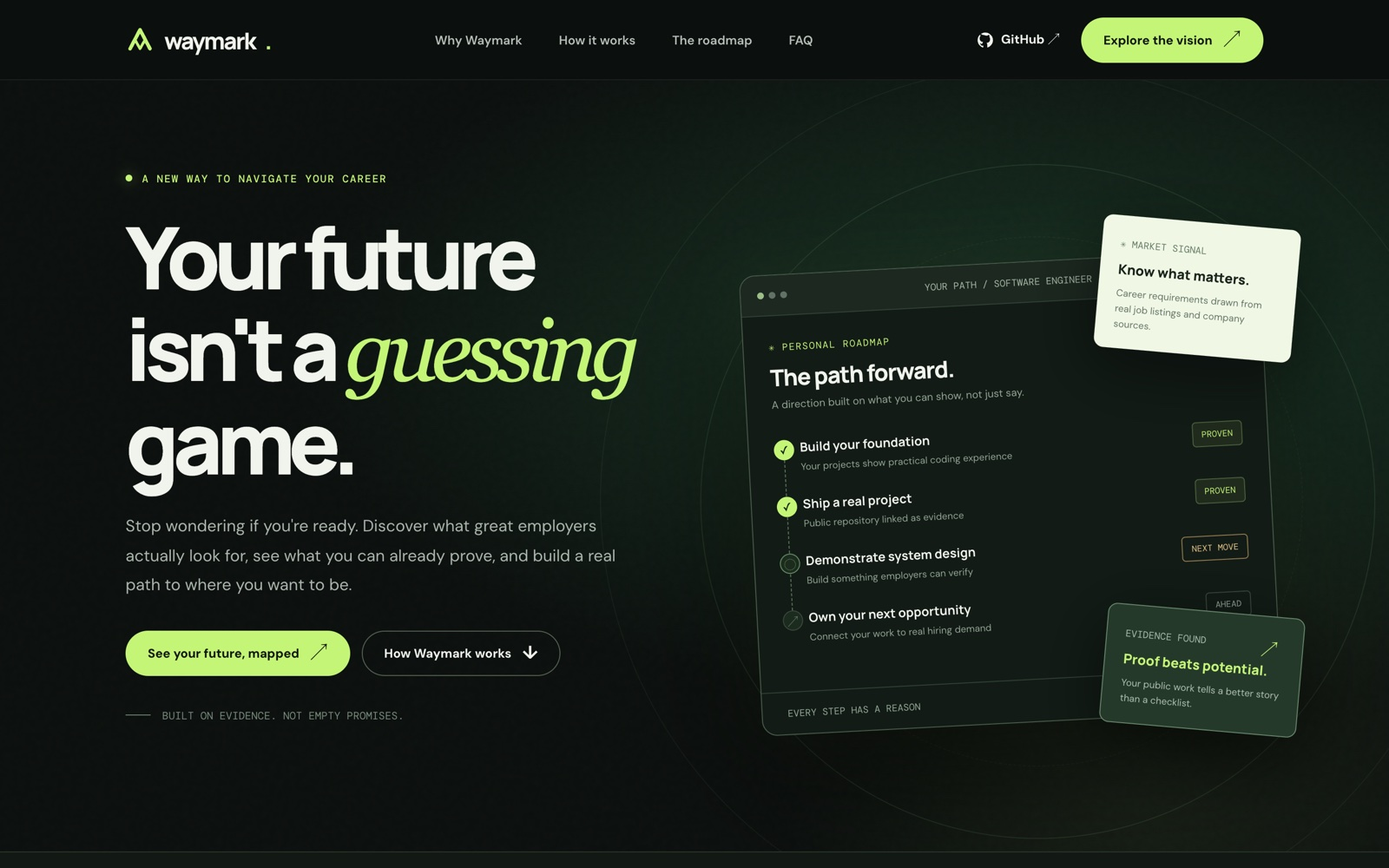
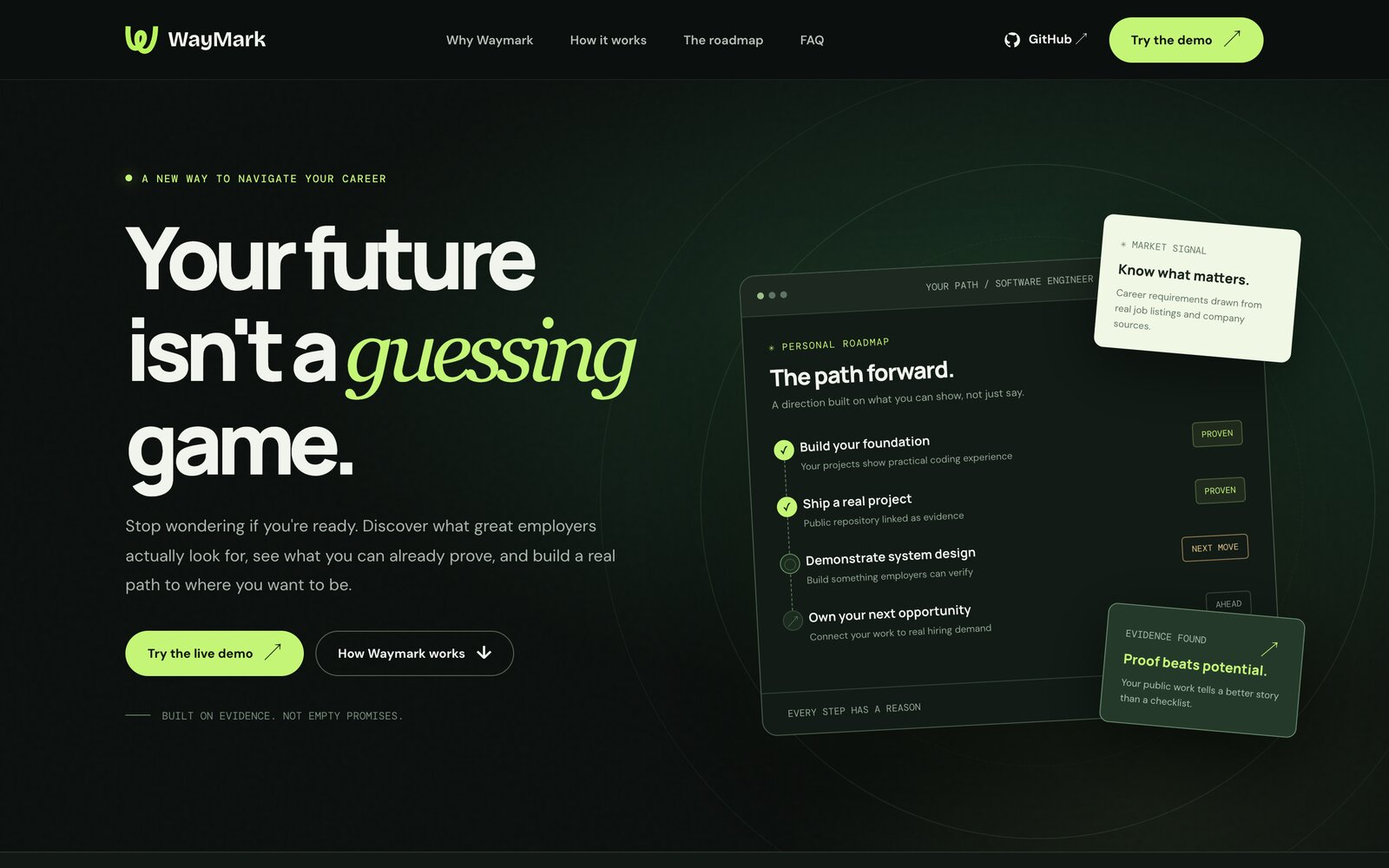
feat: landing page at the root of the demo deployment, app at /demo
With UI_DEMO_ONLY=1 the server now serves landing/index.html at / and
/demo starts the app on sample data, like a product site with a demo.
The landing call-to-action buttons, FAQ and footer link to /demo; on the
GitHub Pages copy, which has no app behind it, they point to the local
quick start instead. The Docker image now includes landing/.

The README hero image is re-shot with the new logo and demo button.

diff --git a/landing/index.html b/landing/index.html
@@ -12,20 +12,21 @@
 </style>
 </head>
 <body>
-<header class="nav"><div class="shell nav-inner"><a class="brand" href="#top" aria-label="WayMark home"><svg class="brand-mark" viewBox="0 0 321 272" aria-hidden="true"><path d="M1.88721 0C18.2022 1.05565 35.6589 1.57716 51.7808 3.10449C51.5561 12.9603 51.0169 23.351 50.3384 33.1934C48.0648 66.2833 50.6482 190 98.4351 190.943C87.5079 156.352 81.0214 110.171 97.231 75.9941C111.741 45.407 144.599 29.2355 176.52 44.8008C212.296 63.021 215.934 109.268 206.332 143.579C198.886 170.187 186.027 191.128 166.43 210.354C197.26 240.311 227.091 201.149 239.478 174.119C264.47 119.583 268.546 59.9441 270.583 0.948242C287.075 1.23574 303.566 1.61269 320.054 2.06641C320.797 38.4352 316.258 80.7158 309.666 116.406C298.671 175.919 265.136 265.681 193.527 271.097C191.377 271.302 185.978 271.313 183.809 271.094C156.226 268.315 140.061 256.466 122.849 236.832C113.585 239.932 102.412 241.843 92.7485 240.818C8.12813 231.846 0.0127886 115.952 0.00830078 52.9629C-0.081558 35.2907 0.548211 17.6228 1.88721 0ZM156.211 91.4424C152.25 87.7275 150.902 87.728 146.61 91.416C133.031 106.905 137.24 143.912 142.377 162.563C152.843 147.217 160.422 130.727 161.015 111.806C161.248 104.376 160.44 97.7 156.211 91.4424Z" fill="#B8F25B"/></svg>WayMark</a><nav class="nav-links" id="nav-links" aria-label="Main navigation"><a href="#why">Why Waymark</a><a href="#how">How it works</a><a href="#preview">The roadmap</a><a href="#faq">FAQ</a></nav><div class="nav-actions"><a class="github-link" href="https://github.com/cufelix/Waymark" target="_blank" rel="noopener noreferrer"><svg viewBox="0 0 24 24" fill="currentColor" aria-hidden="true"><path d="M12 .8A11.2 11.2 0 0 0 8.46 22.63c.56.1.77-.24.77-.54v-2.08c-3.13.68-3.79-1.33-3.79-1.33-.5-1.29-1.25-1.63-1.25-1.63-1.02-.7.08-.68.08-.68 1.12.08 1.71 1.15 1.71 1.15 1 .17 1.64-.54 2.04-1.04a3.05 3.05 0 0 1 .91-1.91c-2.5-.28-5.13-1.25-5.13-5.57 0-1.23.44-2.23 1.15-3.02-.12-.28-.5-1.43.11-2.98 0 0 .94-.3 3.08 1.15A10.7 10.7 0 0 1 12 5.08c.95 0 1.9.13 2.79.38 2.14-1.45 3.08-1.15 3.08-1.15.61 1.55.23 2.7.11 2.98.72.79 1.15 1.79 1.15 3.02 0 4.33-2.64 5.29-5.15 5.57.5.43.95 1.27.95 2.57v3.61c0 .3.2.65.78.54A11.2 11.2 0 0 0 12 .8Z"/></svg>GitHub ↗</a><a class="pill" href="#preview">Explore the vision <span class="arrow">↗</span></a><button class="mobile-toggle" id="menu-toggle" aria-label="Toggle navigation" aria-expanded="false">☰</button></div></div></header>
+<header class="nav"><div class="shell nav-inner"><a class="brand" href="#top" aria-label="WayMark home"><svg class="brand-mark" viewBox="0 0 321 272" aria-hidden="true"><path d="M1.88721 0C18.2022 1.05565 35.6589 1.57716 51.7808 3.10449C51.5561 12.9603 51.0169 23.351 50.3384 33.1934C48.0648 66.2833 50.6482 190 98.4351 190.943C87.5079 156.352 81.0214 110.171 97.231 75.9941C111.741 45.407 144.599 29.2355 176.52 44.8008C212.296 63.021 215.934 109.268 206.332 143.579C198.886 170.187 186.027 191.128 166.43 210.354C197.26 240.311 227.091 201.149 239.478 174.119C264.47 119.583 268.546 59.9441 270.583 0.948242C287.075 1.23574 303.566 1.61269 320.054 2.06641C320.797 38.4352 316.258 80.7158 309.666 116.406C298.671 175.919 265.136 265.681 193.527 271.097C191.377 271.302 185.978 271.313 183.809 271.094C156.226 268.315 140.061 256.466 122.849 236.832C113.585 239.932 102.412 241.843 92.7485 240.818C8.12813 231.846 0.0127886 115.952 0.00830078 52.9629C-0.081558 35.2907 0.548211 17.6228 1.88721 0ZM156.211 91.4424C152.25 87.7275 150.902 87.728 146.61 91.416C133.031 106.905 137.24 143.912 142.377 162.563C152.843 147.217 160.422 130.727 161.015 111.806C161.248 104.376 160.44 97.7 156.211 91.4424Z" fill="#B8F25B"/></svg>WayMark</a><nav class="nav-links" id="nav-links" aria-label="Main navigation"><a href="#why">Why Waymark</a><a href="#how">How it works</a><a href="#preview">The roadmap</a><a href="#faq">FAQ</a></nav><div class="nav-actions"><a class="github-link" href="https://github.com/cufelix/Waymark" target="_blank" rel="noopener noreferrer"><svg viewBox="0 0 24 24" fill="currentColor" aria-hidden="true"><path d="M12 .8A11.2 11.2 0 0 0 8.46 22.63c.56.1.77-.24.77-.54v-2.08c-3.13.68-3.79-1.33-3.79-1.33-.5-1.29-1.25-1.63-1.25-1.63-1.02-.7.08-.68.08-.68 1.12.08 1.71 1.15 1.71 1.15 1 .17 1.64-.54 2.04-1.04a3.05 3.05 0 0 1 .91-1.91c-2.5-.28-5.13-1.25-5.13-5.57 0-1.23.44-2.23 1.15-3.02-.12-.28-.5-1.43.11-2.98 0 0 .94-.3 3.08 1.15A10.7 10.7 0 0 1 12 5.08c.95 0 1.9.13 2.79.38 2.14-1.45 3.08-1.15 3.08-1.15.61 1.55.23 2.7.11 2.98.72.79 1.15 1.79 1.15 3.02 0 4.33-2.64 5.29-5.15 5.57.5.43.95 1.27.95 2.57v3.61c0 .3.2.65.78.54A11.2 11.2 0 0 0 12 .8Z"/></svg>GitHub ↗</a><a class="pill" href="/demo" data-demo>Try the demo <span class="arrow">↗</span></a><button class="mobile-toggle" id="menu-toggle" aria-label="Toggle navigation" aria-expanded="false">☰</button></div></div></header>
 <main id="top">
-<section class="hero"><div class="noise"></div><div class="shell hero-inner"><div class="hero-copy"><div class="eyebrow">A new way to navigate your career</div><h1>Your future<br>isn't a <span class="serif">guessing</span><br>game.</h1><p class="hero-desc">Stop wondering if you're ready. Discover what great employers actually look for, see what you can already prove, and build a real path to where you want to be.</p><div class="hero-buttons"><a href="#preview" class="pill">See your future, mapped <span class="arrow">↗</span></a><a href="#how" class="pill outline">How Waymark works <span class="arrow">↓</span></a></div><div class="trust-note"><span></span>BUILT ON EVIDENCE. NOT EMPTY PROMISES.</div></div><div class="visual" aria-label="Illustrative career roadmap preview"><div class="orbit"></div><div class="orbit two"></div><div class="orbit three"></div><div class="floating-glow"></div><div class="dashboard"><div class="dash-top"><div class="dots"><i></i><i></i><i></i></div><small>YOUR PATH / SOFTWARE ENGINEER</small><span class="mini-brand">W</span></div><div class="dash-body"><div class="dash-tag">✳ PERSONAL ROADMAP</div><div class="dash-title">The path forward.</div><div class="dash-sub">A direction built on what you can show, not just say.</div><div class="route"><div class="route-item done"><span class="route-icon">✓</span><div><div class="route-name">Build your foundation</div><div class="route-description">Your projects show practical coding experience</div></div><span class="status proven">Proven</span></div><div class="route-item done"><span class="route-icon">✓</span><div><div class="route-name">Ship a real project</div><div class="route-description">Public repository linked as evidence</div></div><span class="status proven">Proven</span></div><div class="route-item"><span class="route-icon">◌</span><div><div class="route-name">Demonstrate system design</div><div class="route-description">Build something employers can verify</div></div><span class="status progress">Next move</span></div><div class="route-item locked"><span class="route-icon">↗</span><div><div class="route-name">Own your next opportunity</div><div class="route-description">Connect your work to real hiring demand</div></div><span class="status">Ahead</span></div></div></div><div class="dash-foot"><span>EVERY STEP HAS A REASON</span><b>● EVIDENCE-LED</b></div></div><div class="floatcard"><small>✳ MARKET SIGNAL</small><strong>Know what matters.</strong><p>Career requirements drawn from real job listings and company sources.</p></div><div class="floatcard bottom"><span class="spark">↗</span><small>EVIDENCE FOUND</small><strong>Proof beats potential.</strong><p>Your public work tells a better story than a checklist.</p></div></div></div></section>
+<section class="hero"><div class="noise"></div><div class="shell hero-inner"><div class="hero-copy"><div class="eyebrow">A new way to navigate your career</div><h1>Your future<br>isn't a <span class="serif">guessing</span><br>game.</h1><p class="hero-desc">Stop wondering if you're ready. Discover what great employers actually look for, see what you can already prove, and build a real path to where you want to be.</p><div class="hero-buttons"><a href="/demo" class="pill" data-demo>Try the live demo <span class="arrow">↗</span></a><a href="#how" class="pill outline">How Waymark works <span class="arrow">↓</span></a></div><div class="trust-note"><span></span>BUILT ON EVIDENCE. NOT EMPTY PROMISES.</div></div><div class="visual" aria-label="Illustrative career roadmap preview"><div class="orbit"></div><div class="orbit two"></div><div class="orbit three"></div><div class="floating-glow"></div><div class="dashboard"><div class="dash-top"><div class="dots"><i></i><i></i><i></i></div><small>YOUR PATH / SOFTWARE ENGINEER</small><span class="mini-brand">W</span></div><div class="dash-body"><div class="dash-tag">✳ PERSONAL ROADMAP</div><div class="dash-title">The path forward.</div><div class="dash-sub">A direction built on what you can show, not just say.</div><div class="route"><div class="route-item done"><span class="route-icon">✓</span><div><div class="route-name">Build your foundation</div><div class="route-description">Your projects show practical coding experience</div></div><span class="status proven">Proven</span></div><div class="route-item done"><span class="route-icon">✓</span><div><div class="route-name">Ship a real project</div><div class="route-description">Public repository linked as evidence</div></div><span class="status proven">Proven</span></div><div class="route-item"><span class="route-icon">◌</span><div><div class="route-name">Demonstrate system design</div><div class="route-description">Build something employers can verify</div></div><span class="status progress">Next move</span></div><div class="route-item locked"><span class="route-icon">↗</span><div><div class="route-name">Own your next opportunity</div><div class="route-description">Connect your work to real hiring demand</div></div><span class="status">Ahead</span></div></div></div><div class="dash-foot"><span>EVERY STEP HAS A REASON</span><b>● EVIDENCE-LED</b></div></div><div class="floatcard"><small>✳ MARKET SIGNAL</small><strong>Know what matters.</strong><p>Career requirements drawn from real job listings and company sources.</p></div><div class="floatcard bottom"><span class="spark">↗</span><small>EVIDENCE FOUND</small><strong>Proof beats potential.</strong><p>Your public work tells a better story than a checklist.</p></div></div></div></section>
 <div class="ticker"><div class="shell ticker-inner"><span class="ticker-label">Built for the ambitious</span><div class="ticker-items"><span>Students & graduates</span><span>Career changers</span><span>Self-taught builders</span><span>Future leaders</span></div></div></div>
 <section class="section" id="why"><div class="shell"><div class="section-head reveal"><div class="kicker">01 / The problem we're solving</div><h2>Big ambitions deserve<br><span class="serif">better directions.</span></h2><p class="section-lead">Generic career advice tells everyone the same thing. Waymark is designed to show you the actual gap between where you stand and the opportunities you care about.</p></div><div class="feature-grid"><article class="feature reveal"><span class="feature-number">/ 01 — CLARITY</span><div class="feature-icon">⌁</div><h3>See the real market.</h3><p>Explore the skills employers are asking for, using real job posts, career pages, and transparent sources instead of guesswork.</p></article><article class="feature reveal"><span class="feature-number">/ 02 — EVIDENCE</span><div class="feature-icon">✳</div><h3>Show what you can do.</h3><p>Turn your projects, portfolio, and credentials into a clearer picture of your abilities. Your claims and your proof stay distinct.</p></article><article class="feature reveal"><span class="feature-number">/ 03 — DIRECTION</span><div class="feature-icon">↗</div><h3>Make the next move.</h3><p>Follow a personal roadmap of meaningful steps, with progress you earn through real, verifiable work — not arbitrary scores.</p></article></div></div></section>
 <section class="section light-band" id="how"><div class="shell"><div class="section-head reveal"><div class="kicker">02 / How it works</div><h2>Less scrolling.<br><span class="serif" style="color:#547e51">More becoming.</span></h2><p class="section-lead">A simpler journey from “I have no idea” to “I know exactly what to work on next.”</p></div><div class="process"><div class="step reveal"><div class="step-num">01</div><h3>Tell us your direction.</h3><p>Share your interests, ambitions, CV, and only the work you choose to share. You stay in control of your story.</p></div><div class="step reveal"><div class="step-num">02</div><h3>Discover the gap.</h3><p>Waymark is designed to research the job market and identify what employers expect — and what your own evidence already demonstrates.</p></div><div class="step reveal"><div class="step-num">03</div><h3>Build your way there.</h3><p>Get an actionable learning path and unlock milestones by creating and sharing actual proof of your progress.</p></div></div></div></section>
 <section class="showcase" id="preview"><div class="shell showcase-layout"><div class="reveal"><div class="kicker">03 / An inside look</div><h2>Every skill.<br>Every step.<br><span class="serif">Backed up.</span></h2><p>A preview of the evidence-first thinking behind Waymark. Select a career direction to see how different paths can take shape.</p><div class="tabs" role="tablist" aria-label="Example career paths"><button class="tab" role="tab" aria-selected="true" data-path="engineering">Engineering</button><button class="tab" role="tab" aria-selected="false" data-path="design">Design</button><button class="tab" role="tab" aria-selected="false" data-path="marketing">Marketing</button></div><p style="font:10px 'DM Mono';color:#718b76;margin-top:22px">ILLUSTRATIVE DATA · NOT LIVE JOB-MARKET RESULTS</p></div><div class="sample reveal" aria-live="polite"><div class="sample-header"><span>WAYMARK / CAREER INSIGHTS</span><strong>✳ PATH EXPLORER</strong></div><div class="sample-main"><h3 id="sample-title">Software Engineer</h3><p class="sample-blurb" id="sample-blurb">A clearer view of the skills you can demonstrate and what to build next.</p><div id="sample-skills"><div class="skill-row"><div><strong>Programming fundamentals</strong><small>Demonstrated through projects you've shared</small><small class="source-label">↗ Evidence: public project</small></div><span class="marker">✓ PROVEN</span></div><div class="skill-row"><div><strong>Version control & collaboration</strong><small>Claimed experience; proof can be added</small><small class="source-label">↗ Evidence: CV / self-reported</small></div><span class="marker pending">◌ STATED</span></div><div class="skill-row"><div><strong>System architecture</strong><small>A potential next learning milestone</small><small class="source-label">↗ Evidence: not yet supplied</small></div><span class="marker notyet">↗ NEXT</span></div></div></div><div class="sample-bottom">NO FAKE SCORES. NO BLACK-BOX RANKINGS. <span>JUST A PATH FORWARD ↗</span></div></div></div></section>
 <section class="manifesto"><div class="shell reveal"><div class="kicker">Built for real progress</div><h2>You're more than a résumé.<br><span class="serif">Your work should prove it.</span></h2><p>Your future shouldn't depend on buzzwords or a made-up match score. Waymark is being built around verifiable evidence, transparent sources, and the belief that growth is something you can demonstrate.</p><a class="pill" href="https://github.com/cufelix/Waymark" target="_blank" rel="noopener noreferrer">Follow our progress on GitHub <span class="arrow">↗</span></a></div></section>
-<section class="section" id="faq"><div class="shell"><div class="section-head reveal"><div class="kicker">04 / Good to know</div><h2>Questions? <span class="serif">We've got you.</span></h2></div><div class="faq-wrap"><div class="faq-row open"><button class="faq-question" aria-expanded="true">What exactly is Waymark? <span>−</span></button><div class="faq-answer">Waymark is an evidence-led career roadmap platform in development. It aims to combine the career direction you choose, the work you share, and sourced employer requirements into concrete next steps.</div></div><div class="faq-row"><button class="faq-question" aria-expanded="false">Is Waymark just for people working in tech? <span>+</span></button><div class="faq-answer">No. Waymark is being designed for careers across industries, countries, and professions — from engineering and design to healthcare, finance, and skilled trades. Coverage will grow as reliable sources are added.</div></div><div class="faq-row"><button class="faq-question" aria-expanded="false">How does Waymark know what I'm capable of? <span>+</span></button><div class="faq-answer">You decide what to share, such as your CV, portfolio, public projects, or credentials. Waymark distinguishes things you say you can do from skills supported by links or other evidence.</div></div><div class="faq-row"><button class="faq-question" aria-expanded="false">Are the example insights on this page real? <span>+</span></button><div class="faq-answer">No. The interactive preview is illustrative and does not represent real-time research or a completed user assessment. Waymark's product goal is to link actual claims to inspectable sources.</div></div><div class="faq-row"><button class="faq-question" aria-expanded="false">Can I use Waymark right now? <span>+</span></button><div class="faq-answer">Waymark is under development. You can follow the public repository on GitHub for progress and updates. This landing page doesn't collect personal information or promise an active sign-up flow.</div></div></div></div></section>
-</main><footer class="footer"><div class="shell"><div class="footer-top"><a class="brand" href="#top"><svg class="brand-mark" viewBox="0 0 321 272" aria-hidden="true"><path d="M1.88721 0C18.2022 1.05565 35.6589 1.57716 51.7808 3.10449C51.5561 12.9603 51.0169 23.351 50.3384 33.1934C48.0648 66.2833 50.6482 190 98.4351 190.943C87.5079 156.352 81.0214 110.171 97.231 75.9941C111.741 45.407 144.599 29.2355 176.52 44.8008C212.296 63.021 215.934 109.268 206.332 143.579C198.886 170.187 186.027 191.128 166.43 210.354C197.26 240.311 227.091 201.149 239.478 174.119C264.47 119.583 268.546 59.9441 270.583 0.948242C287.075 1.23574 303.566 1.61269 320.054 2.06641C320.797 38.4352 316.258 80.7158 309.666 116.406C298.671 175.919 265.136 265.681 193.527 271.097C191.377 271.302 185.978 271.313 183.809 271.094C156.226 268.315 140.061 256.466 122.849 236.832C113.585 239.932 102.412 241.843 92.7485 240.818C8.12813 231.846 0.0127886 115.952 0.00830078 52.9629C-0.081558 35.2907 0.548211 17.6228 1.88721 0ZM156.211 91.4424C152.25 87.7275 150.902 87.728 146.61 91.416C133.031 106.905 137.24 143.912 142.377 162.563C152.843 147.217 160.422 130.727 161.015 111.806C161.248 104.376 160.44 97.7 156.211 91.4424Z" fill="#B8F25B"/></svg>WayMark</a><div class="footer-links"><a href="#why">The idea</a><a href="#how">How it works</a><a href="#preview">Roadmap preview</a><a href="https://github.com/cufelix/Waymark" target="_blank" rel="noopener noreferrer">GitHub ↗</a></div></div><div class="footer-bottom"><span>© <span id="year">2026</span> WAYMARK. FIND YOUR WAY FORWARD.</span><span>BUILT WITH AMBITION. GROUNDED IN EVIDENCE.</span></div></div></footer>
+<section class="section" id="faq"><div class="shell"><div class="section-head reveal"><div class="kicker">04 / Good to know</div><h2>Questions? <span class="serif">We've got you.</span></h2></div><div class="faq-wrap"><div class="faq-row open"><button class="faq-question" aria-expanded="true">What exactly is Waymark? <span>−</span></button><div class="faq-answer">Waymark is an evidence-led career roadmap platform in development. It aims to combine the career direction you choose, the work you share, and sourced employer requirements into concrete next steps.</div></div><div class="faq-row"><button class="faq-question" aria-expanded="false">Is Waymark just for people working in tech? <span>+</span></button><div class="faq-answer">No. Waymark is being designed for careers across industries, countries, and professions — from engineering and design to healthcare, finance, and skilled trades. Coverage will grow as reliable sources are added.</div></div><div class="faq-row"><button class="faq-question" aria-expanded="false">How does Waymark know what I'm capable of? <span>+</span></button><div class="faq-answer">You decide what to share, such as your CV, portfolio, public projects, or credentials. Waymark distinguishes things you say you can do from skills supported by links or other evidence.</div></div><div class="faq-row"><button class="faq-question" aria-expanded="false">Are the example insights on this page real? <span>+</span></button><div class="faq-answer">No. The interactive preview is illustrative and does not represent real-time research or a completed user assessment. Waymark's product goal is to link actual claims to inspectable sources.</div></div><div class="faq-row"><button class="faq-question" aria-expanded="false">Can I use Waymark right now? <span>+</span></button><div class="faq-answer">Yes, as a demo. <a href="/demo" data-demo style="color:var(--lime)">Try the demo</a> to walk through the whole flow (interview, task cards, research, career paths and a roadmap) on fictional sample data, with no sign-up. The research engine itself is <a href="https://github.com/cufelix/Waymark" style="color:var(--lime)">open source on GitHub</a>; you can run it with your own API keys.</div></div></div></div></section>
+</main><footer class="footer"><div class="shell"><div class="footer-top"><a class="brand" href="#top"><svg class="brand-mark" viewBox="0 0 321 272" aria-hidden="true"><path d="M1.88721 0C18.2022 1.05565 35.6589 1.57716 51.7808 3.10449C51.5561 12.9603 51.0169 23.351 50.3384 33.1934C48.0648 66.2833 50.6482 190 98.4351 190.943C87.5079 156.352 81.0214 110.171 97.231 75.9941C111.741 45.407 144.599 29.2355 176.52 44.8008C212.296 63.021 215.934 109.268 206.332 143.579C198.886 170.187 186.027 191.128 166.43 210.354C197.26 240.311 227.091 201.149 239.478 174.119C264.47 119.583 268.546 59.9441 270.583 0.948242C287.075 1.23574 303.566 1.61269 320.054 2.06641C320.797 38.4352 316.258 80.7158 309.666 116.406C298.671 175.919 265.136 265.681 193.527 271.097C191.377 271.302 185.978 271.313 183.809 271.094C156.226 268.315 140.061 256.466 122.849 236.832C113.585 239.932 102.412 241.843 92.7485 240.818C8.12813 231.846 0.0127886 115.952 0.00830078 52.9629C-0.081558 35.2907 0.548211 17.6228 1.88721 0ZM156.211 91.4424C152.25 87.7275 150.902 87.728 146.61 91.416C133.031 106.905 137.24 143.912 142.377 162.563C152.843 147.217 160.422 130.727 161.015 111.806C161.248 104.376 160.44 97.7 156.211 91.4424Z" fill="#B8F25B"/></svg>WayMark</a><div class="footer-links"><a href="/demo" data-demo>Demo</a><a href="#why">The idea</a><a href="#how">How it works</a><a href="#preview">Roadmap preview</a><a href="https://github.com/cufelix/Waymark" target="_blank" rel="noopener noreferrer">GitHub ↗</a></div></div><div class="footer-bottom"><span>© <span id="year">2026</span> WAYMARK. FIND YOUR WAY FORWARD.</span><span>BUILT WITH AMBITION. GROUNDED IN EVIDENCE.</span></div></div></footer>
 <script>
 const toggle=document.getElementById('menu-toggle'),nav=document.getElementById('nav-links');toggle.addEventListener('click',()=>{const open=nav.classList.toggle('open');toggle.setAttribute('aria-expanded',String(open));toggle.textContent=open?'×':'☰'});nav.querySelectorAll('a').forEach(a=>a.addEventListener('click',()=>{nav.classList.remove('open');toggle.setAttribute('aria-expanded','false');toggle.textContent='☰'}));document.getElementById('year').textContent=new Date().getFullYear();
 const examples={engineering:{title:'Software Engineer',blurb:'A clearer view of the skills you can demonstrate and what to build next.',rows:[['Programming fundamentals','Demonstrated through projects you’ve shared','Public project','PROVEN'],['Version control & collaboration','Claimed experience; proof can be added','CV / self-reported','STATED'],['System architecture','A potential next learning milestone','Not yet supplied','NEXT']]},design:{title:'Product Designer',blurb:'Connect your creative practice to the capabilities product teams look for.',rows:[['Visual design fundamentals','Demonstrated through a published portfolio','Portfolio case study','PROVEN'],['User research','Experience listed in your CV','CV / self-reported','STATED'],['End-to-end product thinking','An opportunity to build a stronger case study','Not yet supplied','NEXT']]},marketing:{title:'Growth Marketer',blurb:'Turn your campaigns and results into evidence of real impact.',rows:[['Content strategy','Examples shared in your portfolio','Published work','PROVEN'],['Performance analytics','Skill listed in your experience','CV / self-reported','STATED'],['Experiment design','A potential next portfolio milestone','Not yet supplied','NEXT']]}};
 const escapeHTML=s=>s.replace(/[&<>"']/g,c=>({'&':'&amp;','<':'&lt;','>':'&gt;','"':'&quot;',"'":'&#39;'}[c]));document.querySelectorAll('.tab').forEach(t=>t.addEventListener('click',()=>{document.querySelectorAll('.tab').forEach(x=>x.setAttribute('aria-selected',String(x===t)));const d=examples[t.dataset.path];document.getElementById('sample-title').textContent=d.title;document.getElementById('sample-blurb').textContent=d.blurb;document.getElementById('sample-skills').innerHTML=d.rows.map(r=>`<div class="skill-row"><div><strong>${escapeHTML(r[0])}</strong><small>${escapeHTML(r[1])}</small><small class="source-label">↗ Evidence: ${escapeHTML(r[2])}</small></div><span class="marker ${r[3]==='STATED'?'pending':r[3]==='NEXT'?'notyet':''}">${r[3]==='PROVEN'?'✓':r[3]==='STATED'?'◌':'↗'} ${r[3]}</span></div>`).join('')}));
 document.querySelectorAll('.faq-question').forEach(btn=>btn.addEventListener('click',()=>{const row=btn.closest('.faq-row'),willOpen=!row.classList.contains('open');document.querySelectorAll('.faq-row').forEach(r=>{r.classList.remove('open');r.querySelector('button').setAttribute('aria-expanded','false');r.querySelector('button span').textContent='+'});if(willOpen){row.classList.add('open');btn.setAttribute('aria-expanded','true');btn.querySelector('span').textContent='−'}}));
 if('IntersectionObserver'in window){const obs=new IntersectionObserver(entries=>{entries.forEach(e=>{if(e.isIntersecting){e.target.classList.add('visible');obs.unobserve(e.target)}})},{threshold:.1});document.querySelectorAll('.reveal').forEach(el=>obs.observe(el))}else document.querySelectorAll('.reveal').forEach(el=>el.classList.add('visible'));
-</script></body></html>
+</script><script>if(location.hostname.endsWith("github.io"))document.querySelectorAll("[data-demo]").forEach(a=>a.href="https://github.com/cufelix/Waymark#try-it-locally")</script>
+</body></html>

diff --git a/src/api/ui.ts b/src/api/ui.ts
@@ -2,6 +2,7 @@
 // Local mode (this machine only) forwards everything. Public mode is scoped to one seeker per browser: creating a
 // seeker sets a signed HttpOnly session cookie, and every later request may only touch that seeker's own data.
 import { createHmac, timingSafeEqual } from "node:crypto";
+import { readFile } from "node:fs/promises";
 import { getConnInfo } from "@hono/node-server/conninfo";
 import { serveStatic } from "@hono/node-server/serve-static";
 import type { Hono } from "hono";
@@ -93,8 +94,12 @@ export function mountUi(app: Hono<any>, {
     // Nothing from the browser reaches the API, so no visitor can trigger a paid model or provider call.
     app.all("/ui/api/*", (c) =>
       c.json({ ok: false, data: null, error: { code: "unauthorized", message: "This is a demo with sample data only" }, meta: {} }, 401));
+    // The landing page sits at the root, like a product site; /demo starts the app.
+    app.get("/", async (c) => {
+      const page = await readFile("./landing/index.html", "utf8").catch(() => null);
+      return page === null ? c.redirect("/demo") : c.html(page);
+    });
     // Every page runs on the built-in fictional data (prototype/sample.js) instead of the live API.
-    app.get("/", (c) => c.redirect("/index.html?sample=1"));
     app.get("/*", async (c, next) => {
       const url = new URL(c.req.url);
       if (!url.pathname.endsWith(".html") || url.searchParams.get("sample") === "1") return next();
@@ -245,5 +250,6 @@ export function mountUi(app: Hono<any>, {
     return forward(c, path + new URL(c.req.url).search, method, body, contentType);
   };
   app.get("/", (c) => c.redirect("/index.html"));
+  app.get("/demo", (c) => c.redirect("/index.html?sample=1"));
   app.use("/*", serveStatic({ root: "./prototype" }));
 }

diff --git a/test/api/ui.test.ts b/test/api/ui.test.ts
@@ -184,11 +184,15 @@ describe("demo-only mode", () => {
     expect(calls).toEqual([]);
   });
 
-  it("sends every page to the sample data", async () => {
+  it("serves the landing page at the root and sends every app page to the sample data", async () => {
     const { app } = demoApp();
     const root = await app.request(`${PUBLIC_ORIGIN}/`, { headers: { host: "waymark.example.com" } });
-    expect(root.status).toBe(302);
-    expect(root.headers.get("location")).toBe("/index.html?sample=1");
+    expect(root.status).toBe(200);
+    expect(await root.text()).toContain('href="/demo"');
+
+    const demo = await app.request(`${PUBLIC_ORIGIN}/demo`, { headers: { host: "waymark.example.com" } });
+    expect(demo.status).toBe(302);
+    expect(demo.headers.get("location")).toBe("/index.html?sample=1");
 
     const page = await app.request(`${PUBLIC_ORIGIN}/module.html?chapterId=chp_1`, { headers: { host: "waymark.example.com" } });
     expect(page.status).toBe(302);

diff --git a/README.md b/README.md
@@ -201,7 +201,7 @@ The dependency policy may reject packages published too recently. Do not bypass 
 
 The app waits for PostgreSQL to become healthy and runs migrations before starting the API and worker. Data and source snapshots use named volumes.
 
-**Public demo that can’t spend money:** set `UI_DEMO_ONLY=1` and leave every provider key empty. The UI bridge is then closed (the browser can’t reach any route that calls a model or provider) and every page runs on the built-in sample data. Anyone can click through the whole product; their answers never leave the browser and no paid API is called.
+**Public demo that can’t spend money:** set `UI_DEMO_ONLY=1` and leave every provider key empty. The root URL then serves the landing page, `/demo` starts the app, the UI bridge is closed (the browser can’t reach any route that calls a model or provider) and every app page runs on the built-in sample data. Anyone can click through the whole product; their answers never leave the browser and no paid API is called.
 
 Without `UI_DEMO_ONLY`, this public setup is a live demo, not a multi-user production deployment: the UI bridge uses one shared server API key and there is no per-user login. Use only obviously fake data (for example “Jane Example” and `example.com`). See the [readiness audit](docs/readiness-audit.md).
 
